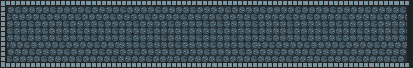
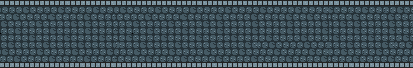
hi

Changed region(s): [[0.0, 0.0, 0.2906, 1.0], [0.7845, 0.0, 1.0, 1.0]]

diff --git a/main.py b/main.py
@@ -21,9 +21,11 @@ charactermovingright = pygame.image.load("Characters/Slime/slimemovingright.png"
 charactermovingleft = pygame.image.load("Characters/Slime/slimemovingleft.png").convert_alpha()
 enemy = pygame.image.load("Characters/Skeletons/skeleton.png").convert_alpha()
 attack = pygame.image.load("Characters/Slime/slimeattack.png").convert_alpha()
-map = pygame.image.load("Map/map.png").convert()
+map = pygame.image.load("Map/startmap.png").convert()
+map_infinite_generate = pygame.image.load("Map/map.png").convert()
 
 map = pygame.transform.scale(map, (4130, 580))
+map_infinite_generate = pygame.transform.scale(map_infinite_generate, (4130, 580))
 characterstill = pygame.transform.scale(characterstill, (slimeconstants.characterwidth, slimeconstants.characterheight))
 charactermovingright = pygame.transform.scale(charactermovingright, (slimeconstants.characterwidth, slimeconstants.characterheight))
 charactermovingleft = pygame.transform.scale(charactermovingleft, (slimeconstants.characterwidth, slimeconstants.characterheight))
@@ -56,11 +58,13 @@ screen.fill("black")
 #Origin is in top left corner
 #Y axis is inverted in Pygame (increasing y goes down)
 
-#Immediate Stuff to do:
-#Make the map infinitely generate as the player moves right
-
-#Long term stuff:
+#Features to Add:
+#Obstacles
+#Start menu
+#Cards to power up the player along the way
+#Score system
 #Enemy pathfinding (Djirkstra's algo or A* star)
+#Enemies
 
 while running:
     for event in pygame.event.get():
@@ -88,11 +92,19 @@ while running:
         curtime,
         slimeconstants.animation_speed
     )
+    cameraoffsetx = max(cameraoffsetx, -screen_size[0]/2 + 100)
+    cameraoffsety = max(cameraoffsety, -screen_size[1]/2 + 50)
+    cameraoffsety = min(cameraoffsety, -screen_size[1]/2 + map.height - 70)
     character_posx = character_hitbox.centerx + cameraoffsetx
     character_posy = character_hitbox.centery + cameraoffsety
  
     #Draw character and map
-    screen.blit(map, (-cameraoffsetx, -cameraoffsety))
+    starttile = int(cameraoffsetx / map.width)
+    for i in range(starttile, starttile + 2):
+        if i == 0:
+            screen.blit(map, (-cameraoffsetx, -cameraoffsety))
+        elif i > 0:
+            screen.blit(map_infinite_generate, ((i * map_infinite_generate.width) - cameraoffsetx, -cameraoffsety))
     screen.blit(character, character_hitbox)
 
     #Create new attacks

diff --git a/attackmechanism.py b/attackmechanism.py
@@ -18,7 +18,7 @@ def update_attacks(attacks, screen, attackradius, enemies, cameraoffsetx, camera
 
         attack_hitbox = attack_img.get_rect(topleft=(curx, cury))
         screen.blit(attack_img, (curx - cameraoffsetx, cury - cameraoffsety))
-        pygame.draw.rect(screen, (0, 255, 0), attack_hitbox, 2)
+        #pygame.draw.rect(screen, (0, 255, 0), attack_hitbox, 2)
         
         hit = False
         for enemy in enemies:

diff --git a/charactermovement.py b/charactermovement.py
@@ -43,6 +43,6 @@ def updatemovement(cameraoffsetx,
                 character_hitbox = characterstretch_hitbox
             else:
                 character = characterstill
-                character_hitbox = characterstill_hitbox    
+                character_hitbox = characterstill_hitbox   
 
     return character, character_hitbox, cameraoffsetx, cameraoffsety, prevtime
